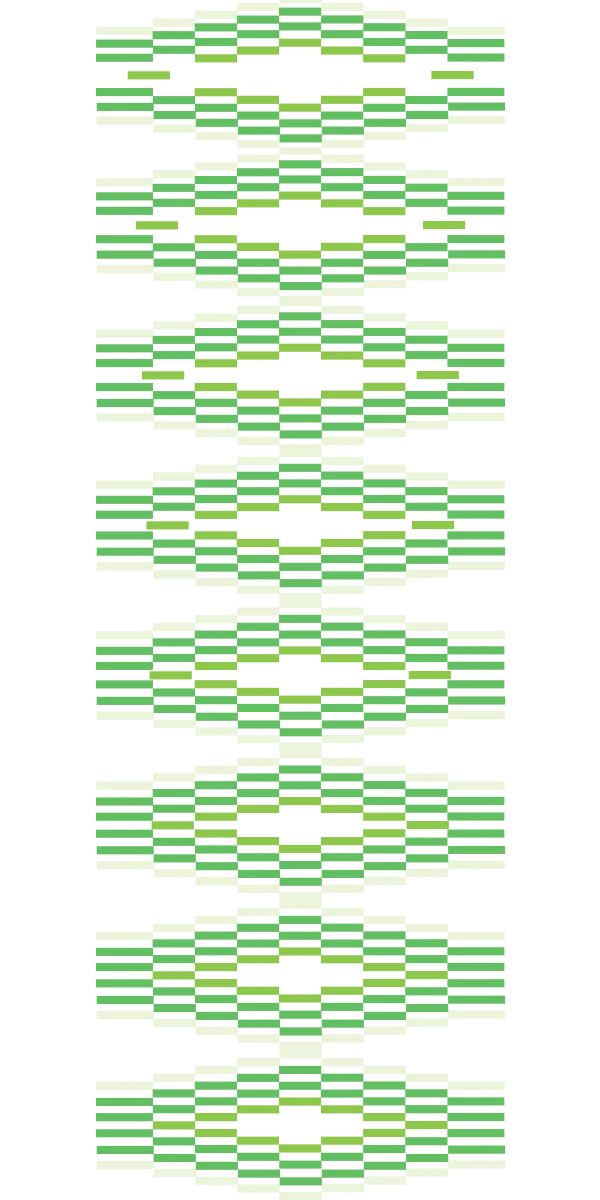
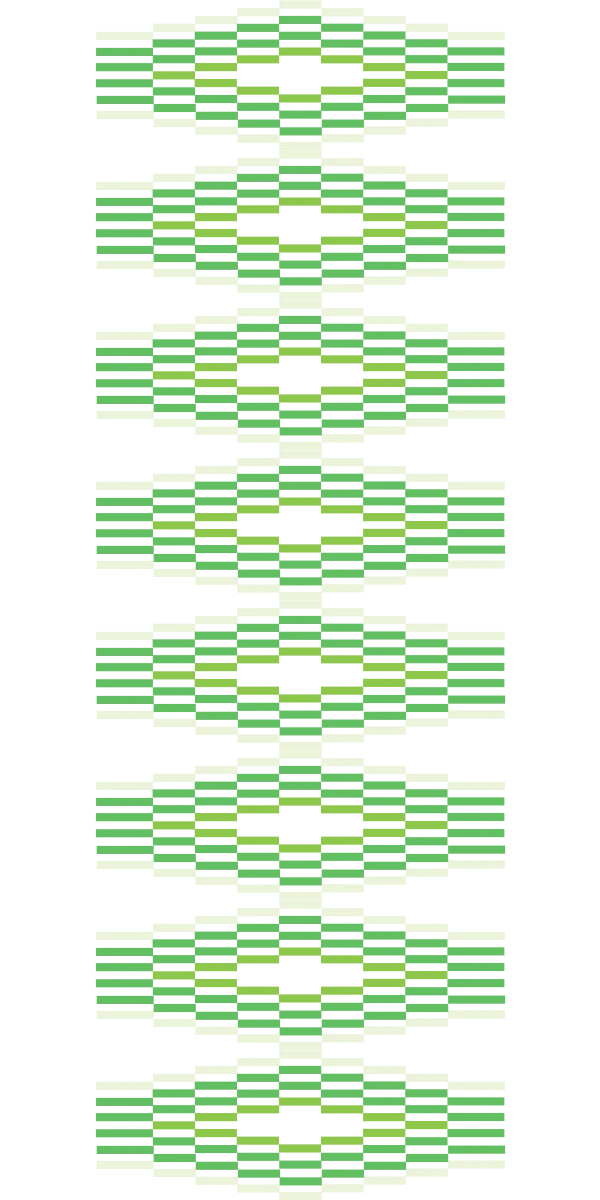
Signature: 10 fps, 4.5 s loop for option A, per-element fade, README for the toolkit

Changed region(s): [[0.15, 0.0, 0.84, 0.6167], [0.18, 0.6475, 0.75, 0.74], [0.75, 0.6783, 0.84, 0.7092]]

diff --git a/js/signature.js b/js/signature.js
@@ -87,13 +87,15 @@
     g.restore();
     g.globalAlpha = outer;
   }
-  function drawContent(g, design, fields, usePlaceholders) {
+  function drawContent(g, design, fields, usePlaceholders, alpha) {
     const d = DESIGNS[design];
     for (const k of ['name', 'title', 'email', 'phone']) {
       const v = (fields[k] || '').trim();
+      g.globalAlpha = (k === 'name' || k === 'title') ? alpha.name : alpha.rest;
       if (v) drawText(g, v, d[k], false);
       else if (usePlaceholders) drawText(g, PLACEHOLDER[k], d[k], true);
     }
+    g.globalAlpha = alpha.rest;
     if (assets.se) { const h = d.se.w * assets.se.naturalHeight / assets.se.naturalWidth; g.drawImage(assets.se, d.se.x, d.se.y, d.se.w, h); }
     if (d.divider) { g.fillStyle = d.divider.color; g.fillRect(d.divider.x - 0.5, d.divider.y0, 1, d.divider.y1 - d.divider.y0); }
     if (assets.one) { const h = d.one.w * assets.one.naturalHeight / assets.one.naturalWidth; g.drawImage(assets.one, d.one.x, d.one.y, d.one.w, h); }
@@ -109,10 +111,11 @@
   // opacity of the text and logos for a given animation frame (1 = fully visible)
   function contentAlpha(design, sprite, frame) {
     const d = DESIGNS[design];
-    if (!d.contentFollowsOverlay || !sprite || !sprite.manifest.coverage) return 1;
+    if (!d.contentFollowsOverlay || !sprite || !sprite.manifest.coverage) return { name: 1, rest: 1 };
     const cov = sprite.manifest.coverage;
     const c = cov[((frame % cov.length) + cov.length) % cov.length] || 0;
-    return Math.pow(1 - c, 0.8);           // fades slightly faster than the pattern, as in the designer's comp
+    // in the comp the name lingers slightly while details and logos clear first
+    return { name: Math.pow(1 - c, 0.7), rest: Math.pow(1 - c, 1.6) };
   }
   function drawFrame(g, scale, frame, usePlaceholders) {
     const d = DESIGNS[state.design];
@@ -121,9 +124,9 @@
     g.imageSmoothingEnabled = true; g.imageSmoothingQuality = 'high';
     g.fillStyle = d.bg; g.fillRect(0, 0, W, H);
     const a = contentAlpha(state.design, sprite, frame);
-    if (a > 0.002) {
-      g.save(); g.globalAlpha = a;
-      drawContent(g, state.design, state.fields, usePlaceholders);
+    if (a.name > 0.002 || a.rest > 0.002) {
+      g.save();
+      drawContent(g, state.design, state.fields, usePlaceholders, a);
       g.restore();
     }
     drawOverlay(g, sprite, frame);
@@ -182,7 +185,7 @@
   }
   async function renderGif(onProgress) {
     await init();
-    const { GIFEncoder, quantize, applyPalette } = await import('./vendor/gifenc.esm.js');   // resolved against the page URL (classic script)
+    const { GIFEncoder, quantize, applyPalette } = await import(new URL('vendor/gifenc.esm.js', document.baseURI).href);   // absolute: import() in a classic script resolves against the script URL in some browsers
     const sprite = assets.sprites[state.design];
     const frames = sprite.manifest.frames, fps = sprite.manifest.fps;
     const c = document.createElement('canvas'); c.width = W; c.height = H;

diff --git a/index.html b/index.html
@@ -11,7 +11,7 @@
   <meta property="og:type" content="website">
   <link rel="icon" href="assets/se-mark.svg" type="image/svg+xml">
   <link rel="preload" as="image" href="assets/frames/frame-bg-lossless.webp" type="image/webp">
-  <link rel="stylesheet" href="css/style.css?v=20260904e">
+  <link rel="stylesheet" href="css/style.css?v=20260904g">
 </head>
 <body>
 
@@ -254,8 +254,8 @@ Schneider Electric</pre>
 
   <div id="toast" class="toast" role="status" aria-live="polite"></div>
 
-  <script src="js/app.js?v=20260904e" defer></script>
-  <script src="js/signature.js?v=20260904e" defer></script>
-  <script src="js/toolkit.js?v=20260904e" defer></script>
+  <script src="js/app.js?v=20260904g" defer></script>
+  <script src="js/signature.js?v=20260904g" defer></script>
+  <script src="js/toolkit.js?v=20260904g" defer></script>
 </body>
 </html>

diff --git a/tools/build_signature_assets.py b/tools/build_signature_assets.py
@@ -31,13 +31,14 @@ ROOT = os.path.dirname(os.path.dirname(os.path.abspath(__file__)))
 SRC = os.path.join(ROOT, "source", "signature")
 OUT = os.path.join(ROOT, "assets", "signature")
 W, H = 600, 150
-FPS = 12
+FPS = 10                 # GIF frame rate; keeps the email signature under ~600 KB
 FRAMES_PER_STRIP = 8
 
 OPTIONS = {
-    # option: (alpha movie, source fps, first "clean" source frame to start the loop on, crossfade frames at the seam)
-    "a": ("option-a-alpha.mov", 24, 0, 12),   # stripes never return to frame 0 exactly -> 1 s crossfade closes the loop
-    "b": ("option-b-alpha.mov", 60, 76, 0),   # source already loops; re-cut so frame 0 is the clean state
+    # option: (alpha movie, source fps, first "clean" source frame to start the loop on,
+    #          crossfade frames at the seam, loop length in seconds or None for the whole source)
+    "a": ("option-a-alpha.mov", 24, 0, 8, 4.5),   # stripes never return to frame 0 -> 4.5 s cut + 0.8 s crossfade closes the loop
+    "b": ("option-b-alpha.mov", 60, 76, 0, None), # source already loops; re-cut so frame 0 is the clean state
 }
 STRIP_FORMAT = ("webp", {"quality": 92, "alpha_quality": 100, "method": 4})
 LOGOS = {
@@ -65,7 +66,7 @@ def extract_frames(movie, tmp):
     return sorted(os.path.join(tmp, f) for f in os.listdir(tmp) if f.endswith(".png"))
 
 
-def build_option(key, movie, src_fps, start, xfade):
+def build_option(key, movie, src_fps, start, xfade, loop_seconds):
     out_dir = os.path.join(OUT, key)
     if os.path.isdir(out_dir):
         shutil.rmtree(out_dir)
@@ -86,6 +87,8 @@ def build_option(key, movie, src_fps, start, xfade):
             if fr.size != (W, H):
                 fr = fr.resize((W, H), Image.LANCZOS)
             imgs.append(fr)
+        if loop_seconds:
+            imgs = imgs[:int(round(loop_seconds * FPS)) + xfade]
         if xfade:
             # blend the last `xfade` frames towards the first `xfade`, then drop the first ones: seamless loop
             n2 = len(imgs)
@@ -139,8 +142,8 @@ def build_logos():
 def main():
     os.makedirs(OUT, exist_ok=True)
     build_logos()
-    for key, (movie, fps, start, xfade) in OPTIONS.items():
-        build_option(key, movie, fps, start, xfade)
+    for key, (movie, fps, start, xfade, loop_seconds) in OPTIONS.items():
+        build_option(key, movie, fps, start, xfade, loop_seconds)
 
 
 if __name__ == "__main__":

diff --git a/README.md b/README.md
@@ -1,26 +1,42 @@
-# OYW26 value frame tool
+# OYW26 employee toolkit
 
-Schneider Electric × One Young World 2026 · "Pick your value" profile-picture tool.
+Schneider Electric × One Young World 2026 · "Powered By Each Other" employee toolkit.
 
-A static, browser-only web app. Visitors add a photo, the face is found on-device
-(TensorFlow.js BlazeFace, self-hosted), the photo is auto-framed inside the branded
-frame, they pick the value they stand for, fine-tune, and save or share a 1080×1080
-PNG (plus a 1080×1920 story version). No photo ever leaves the device. No backend.
+A static, browser-only web app with four tabs:
+
+1. **Profile frame** – add a photo, the face is found on-device (TensorFlow.js BlazeFace,
+   self-hosted), the photo is auto-framed inside the branded frame, pick the value you stand
+   for, fine-tune, save or share a 1080×1080 PNG (plus a 1080×1920 story version).
+2. **Email signature** – two designs (white with moving stripes, mint with the pattern reveal).
+   Name, title, email and phone are typed into the design in Poppins; the designer's alpha
+   animation plays on top; export an animated GIF (600×150, encoded in the browser with gifenc)
+   or a static PNG, with per-mail-client install steps.
+3. **LinkedIn banner** – four banners at 1584×396 with a preview of where the profile photo lands.
+4. **Captions** – the three LinkedIn templates from the client doc; the personal one pre-fills
+   the chosen value.
+
+No photo or detail ever leaves the device. No backend.
 
 ## Structure
 
 ```
 index.html            page
 css/style.css         styling (Poppins, brand palette from Colors.svg)
-js/app.js             app logic: compositing, gestures, detection, export
+js/app.js             profile frame: compositing, gestures, detection, export
+js/signature.js       email signature: layout, sprite animation, GIF/PNG export
+js/toolkit.js         tabs, LinkedIn banners, captions
 assets/frames/        shared frame background (transparent oval window) + placement config
 assets/icons/         <value>-frame.svg (mint icon in frame coordinates), <value>.svg (gradient legend icon)
 assets/fonts/         Poppins woff2 (self-hosted)
 assets/bg-motion.mp4  "gradient motion" background loop, transcoded to 720p / ~290 KB
-vendor/               tf.js + blazeface (UMD, self-hosted)
+vendor/               tf.js + blazeface (UMD) and gifenc (ESM), self-hosted
+assets/signature/     logos + sprite strips (a/, b/) with manifests; preview-a/b.png style thumbnails
+assets/banners/       LinkedIn banners 1584×396 + thumbnails
+source/signature/     designer's AE hand-off: alpha layers (.mov, not committed), logos, reference frames
 models/blazeface/     BlazeFace short-range model (self-hosted)
 source/               the client's original SVGs (frames, icons, colours, patterns)
-tools/build_assets.py regenerates assets/ from source/
+tools/build_assets.py            regenerates the frame assets from source/
+tools/build_signature_assets.py  regenerates assets/signature from source/signature (ffmpeg + Pillow + numpy)
 ```
 
 ## Swapping in the real Action frame
@@ -31,6 +47,23 @@ built from the standalone Action icon (`source/3.svg`) and centred in the usual 
 1. Copy the real file to `source/Action.svg`.
 2. Run `python3 tools/build_assets.py` (needs Pillow only to regenerate the WebP background).
 3. Commit and push. Nothing else changes.
+
+## Email signature notes
+
+- The AE alpha layers are premultiplied; the build un-premultiplies them, otherwise the
+  semi-transparent stripes render grey.
+- Option B is re-cut so frame 0 is the clean design (Outlook for Windows shows only the first
+  frame). Its text and logos fade with the pattern, driven by the per-frame `coverage` in the
+  manifest.
+- Option A never returns to its first frame, so the loop is cut at 4.5 s and closed with a
+  crossfade. 10 fps keeps the GIFs around 780 KB (A) and 380 KB (B).
+- Text layout and colours were measured from the designer's finished frames
+  (`source/signature/reference-option-*.png`); `DESIGNS` in `js/signature.js` holds them.
+
+## Cache busting
+
+Script and style URLs in `index.html` carry `?v=…`. Bump it when deploying changes to those
+files. Sprite strips use the manifest's `built` stamp automatically.
 
 ## Editing copy
 
